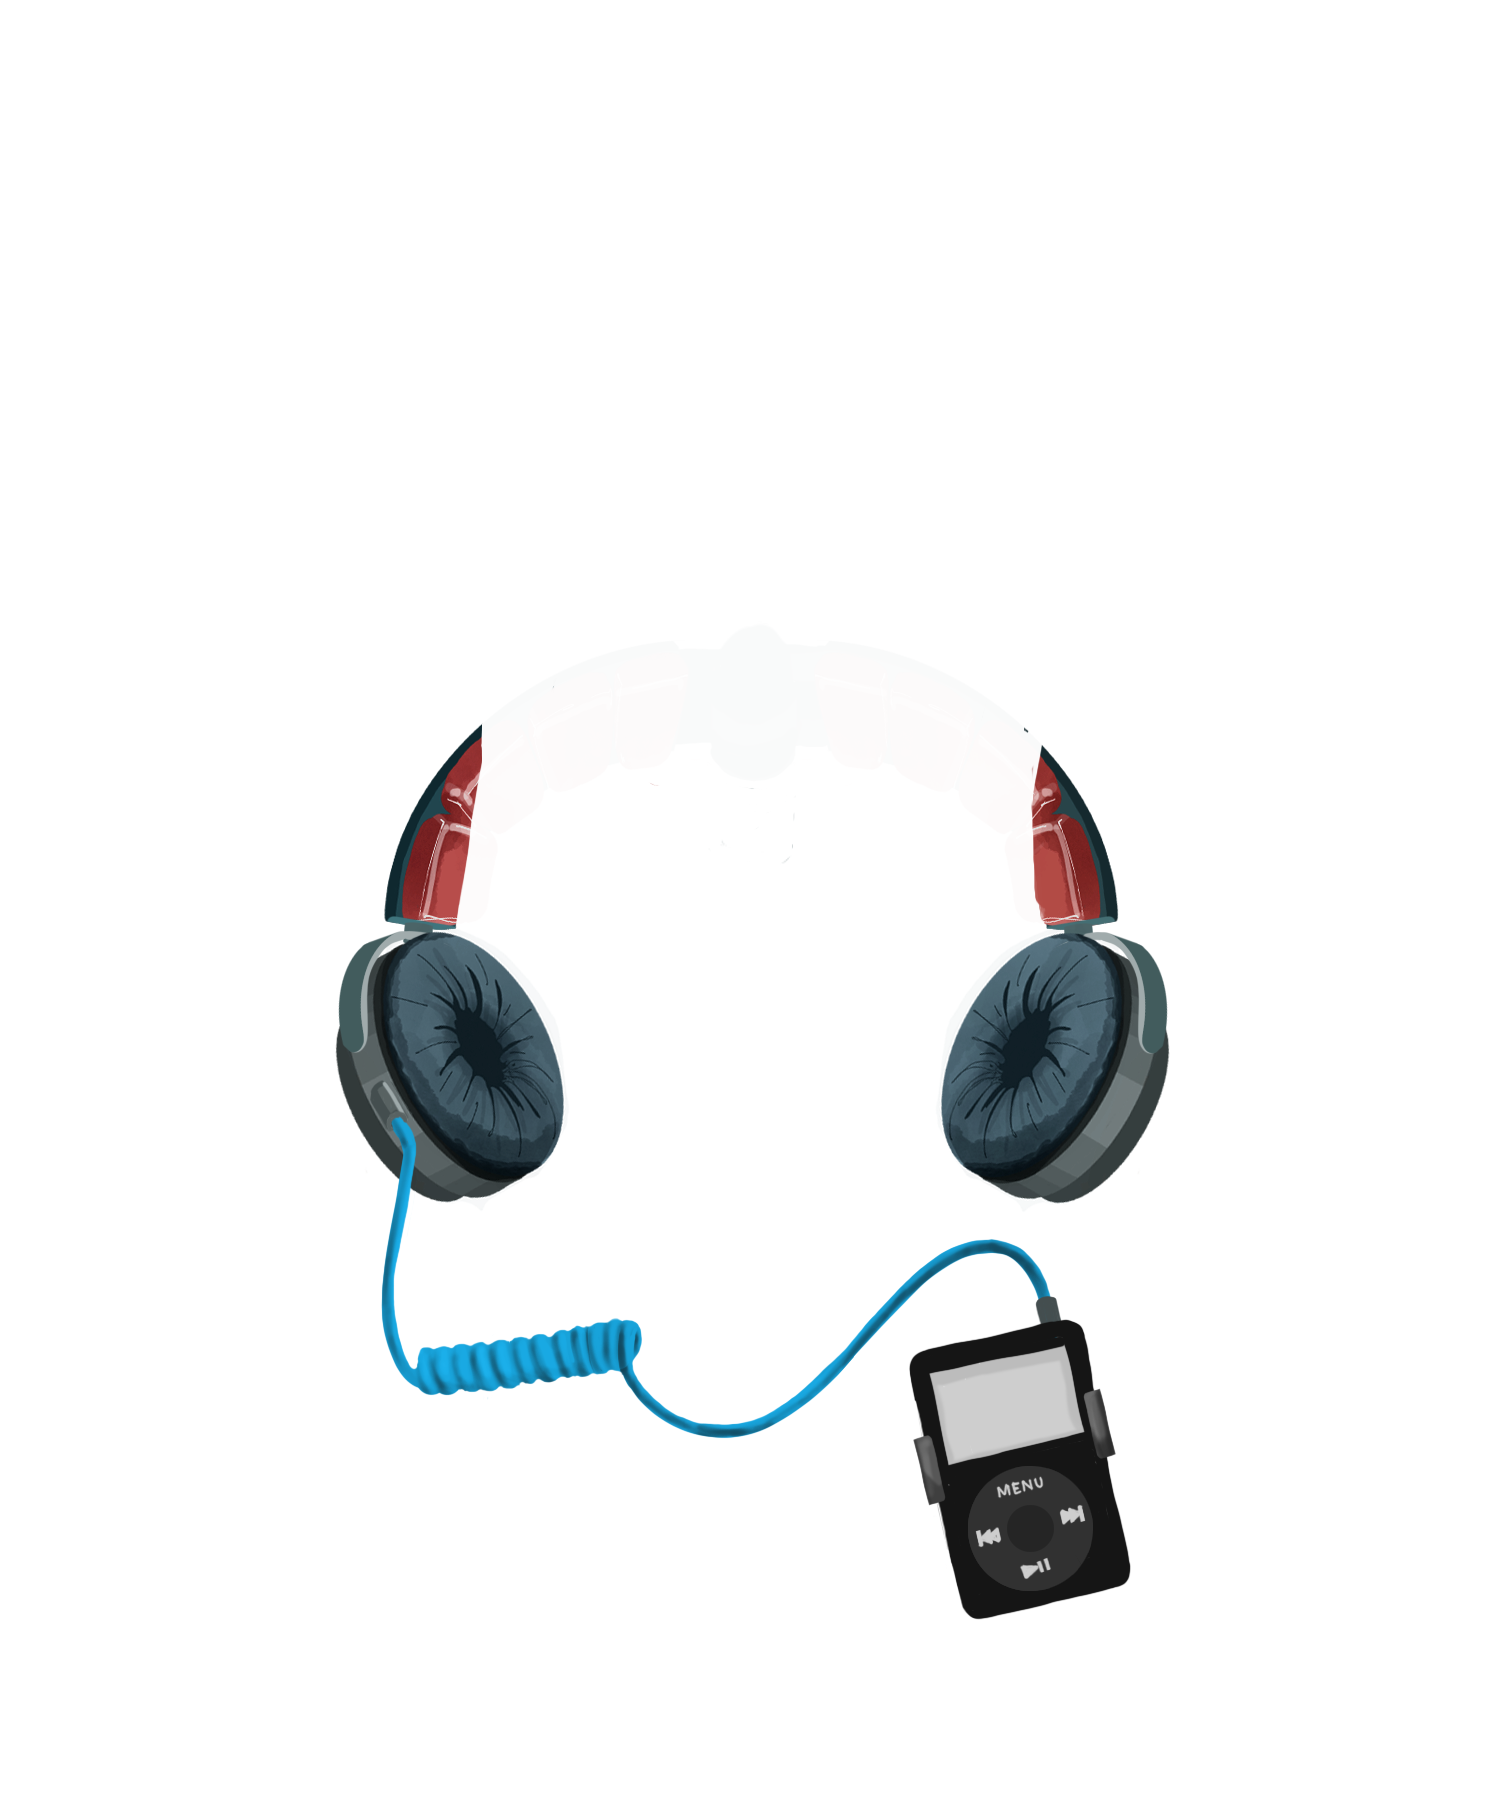
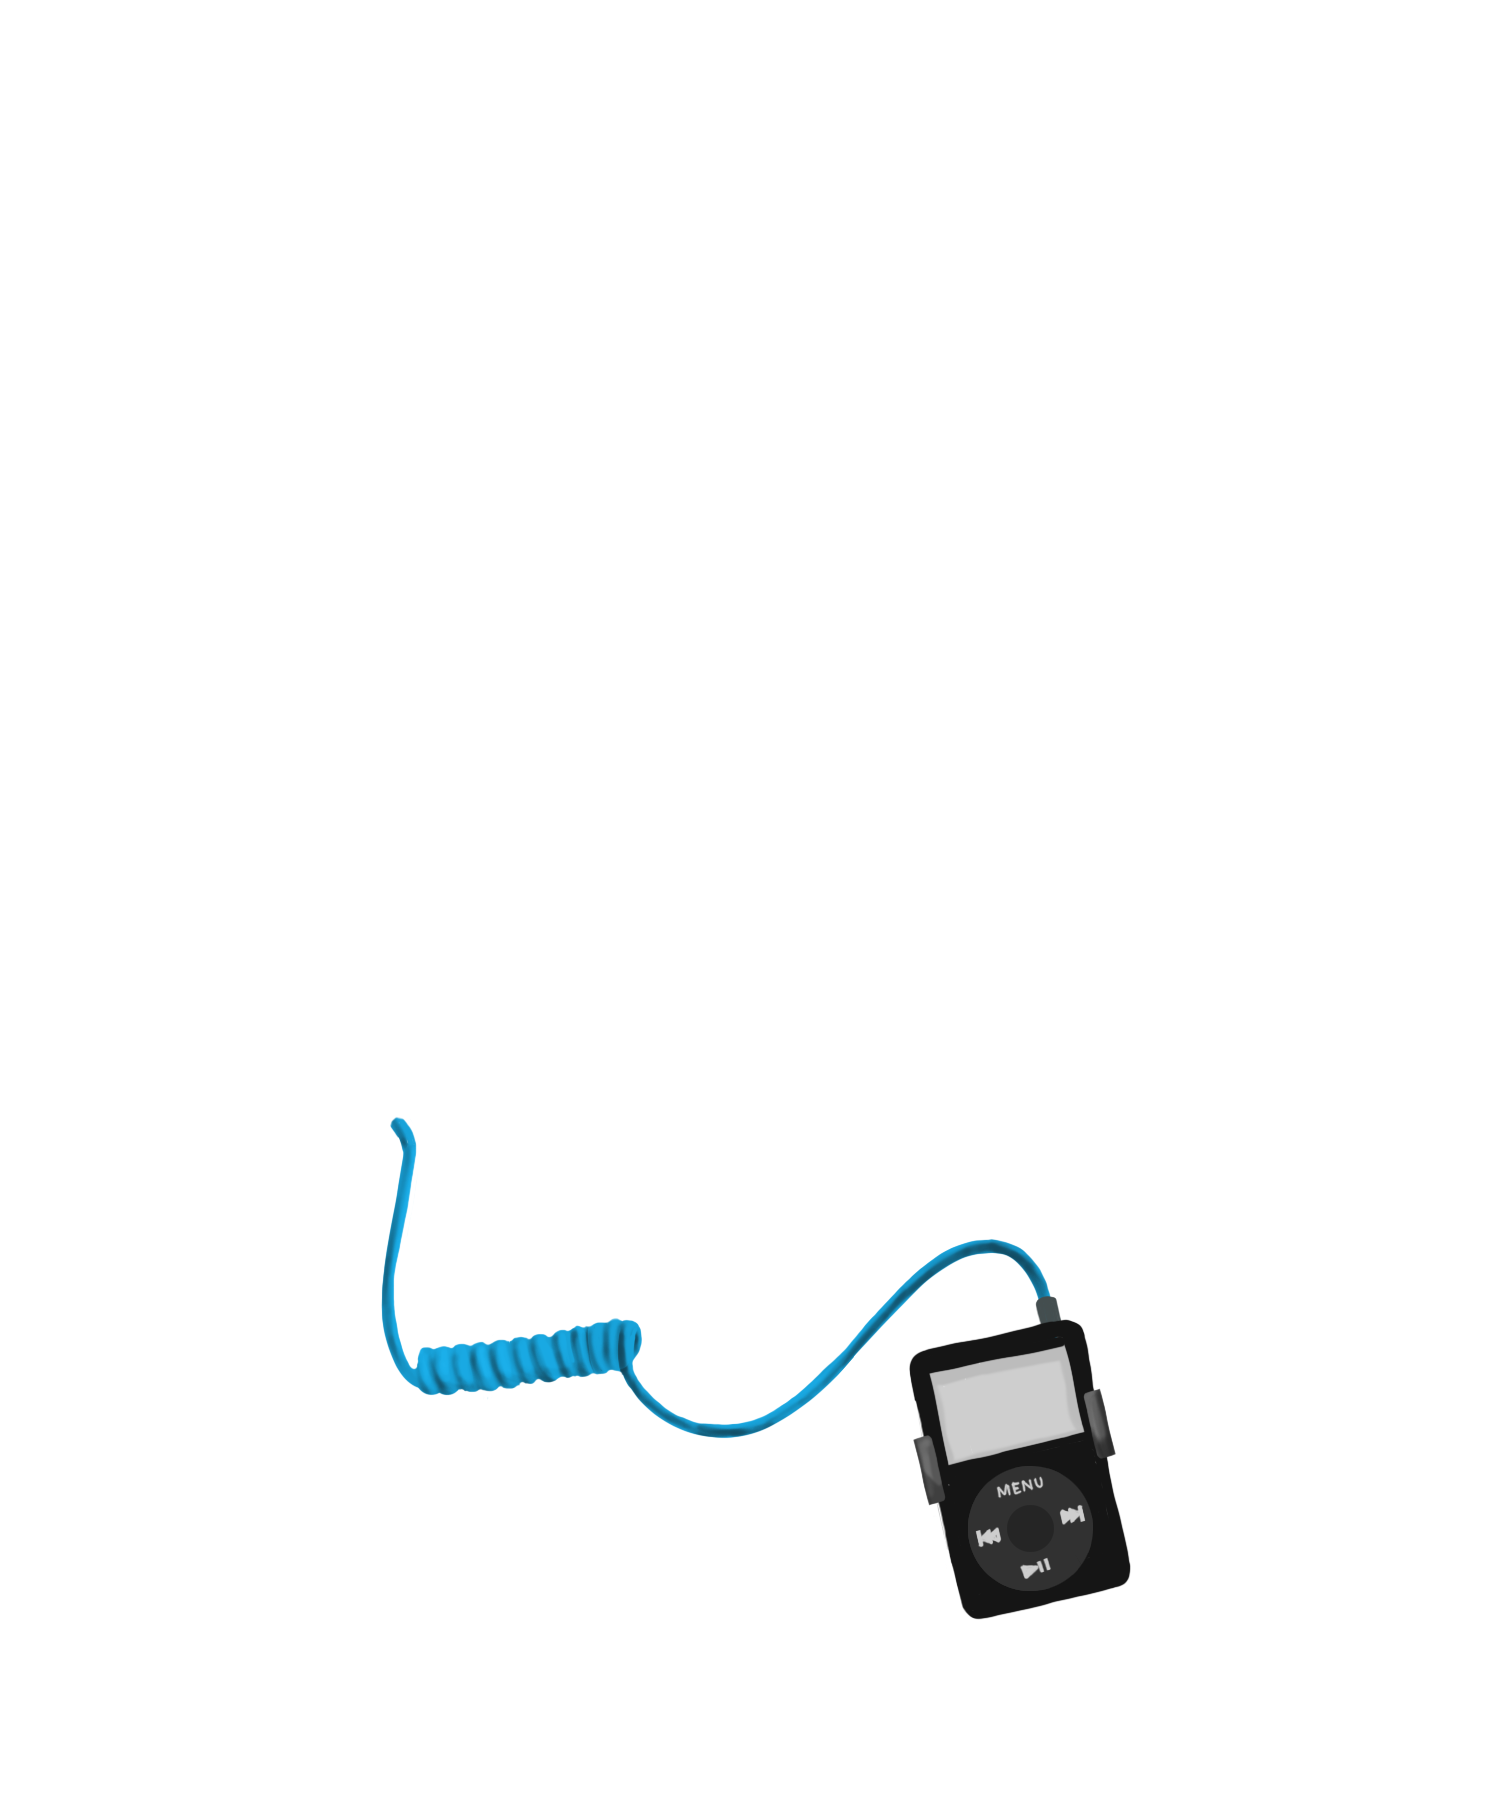
Fix headphones

Changed region(s): [[0.6183, 0.4044, 0.8038, 0.6844], [0.2164, 0.4044, 0.4019, 0.6844]]

diff --git a/2422.js b/2422.js
@@ -289,8 +289,10 @@ const losOsosSchema = {
                     assets: [ 
                         "./assets/occupation_wtbs.png",
                         { image: "./assets/occupation_sports_jacket_back.png", tint: "#7c4b85"},
+                        "./assets/decoro_headphones.png", 
+                        "./assets/decoro_headphones_back.png",
                         "./assets/decoro_ipod.png", 
-                        "./assets/decoro_ipod_back.png",
+                        "./assets/empty.png",
                         "./assets/occupation_wtbs_screen.png", 
                     ],
                 },
@@ -551,25 +553,37 @@ const losOsosSchema = {
                 },
                 {
                     name: "p5.js fan",
-                    type: "dual",
                     tints: [ "#eeeae4" ],
-                    chance: 0.6,
+                    type: "dual",
                     assets: [ 
                         { image: "./assets/occupation_tshirt_white.png", tint: true, },
-                        { image: "./assets/decoro_ipod_back.png" },
+                        { image: "./assets/occupation_creator_back.png", tint: true, }, 
+                        "./assets/occupation_p5js.png",        
+                    ],      
+                    chance: 0.3  
+                },
+                {
+                    name: "The Coding Train and p5.js fan",
+                    tints: [ "#eeeae4" ],
+                    type: "dual",
+                    assets: [ 
+                        { image: "./assets/occupation_tshirt_white.png", tint: true, },
+                        { image: "./assets/decoro_headphones_back.png" },
                         
                         "./assets/occupation_p5js.png",
                         { image: "./assets/occupation_creator_back.png", tint: true, }, 
                         
                         "./assets/decoro_ipod_strap.png", 
                         "./assets/empty.png",
+                        "./assets/decoro_headphones.png", 
+                        "./assets/empty.png",
                         "./assets/decoro_ipod.png", 
                         "./assets/empty.png",
 
-                        "./assets/occupation_wtbs_screen.png", 
+                        "./assets/decoro_coding_train_screen.png", 
 
                     ],
-                    chance: 1000,
+                    chance: 0.7,
                 },
                 {
                     name: "Santiago's PSA t-shirt",
@@ -1382,7 +1396,7 @@ const losOsosSchema = {
                     assets: [ "./assets/eyewear_monocle.png", "./assets/eyewear_monocle_back.png" ],
                 },
                 { 
-                    name: "Eye patch", 
+                    name: "SMOLSKULL-PATTERN eyepatch", 
                     type: "dual",
                     assets: [ "./assets/eyewear_patch.png", "./assets/eyewear_patch_back.png" ],
                     level: 295,
@@ -1549,7 +1563,7 @@ const losOsosSchema = {
                     level: 250,
                 },
                 { 
-                    name: "Rev Dan Cat's beard", 
+                    name: "Rev Dan Catt's beard", 
                     type: "front",
                     assets: [
                         { image: "./assets/mouth_rev_beard.png", level: 250 },
